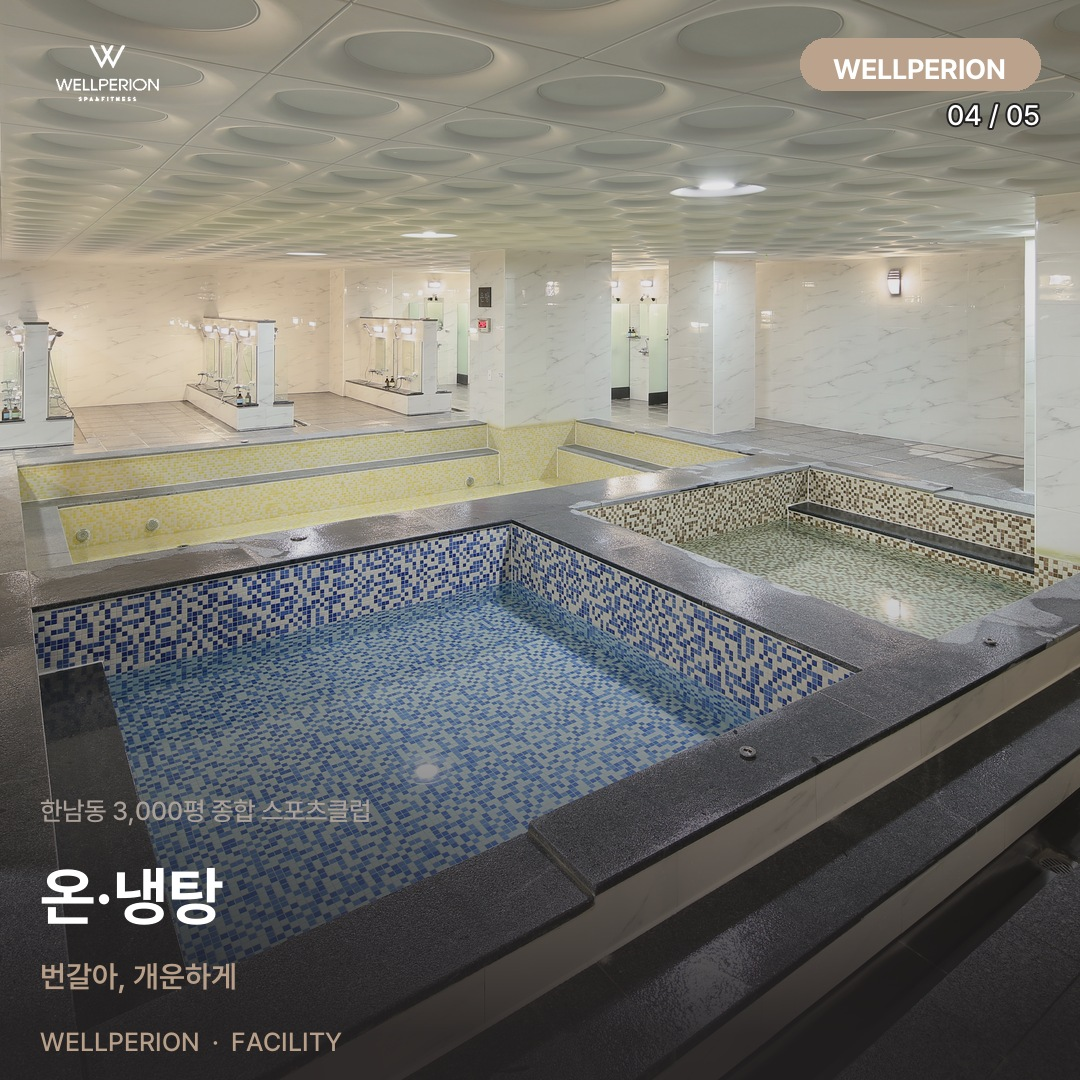
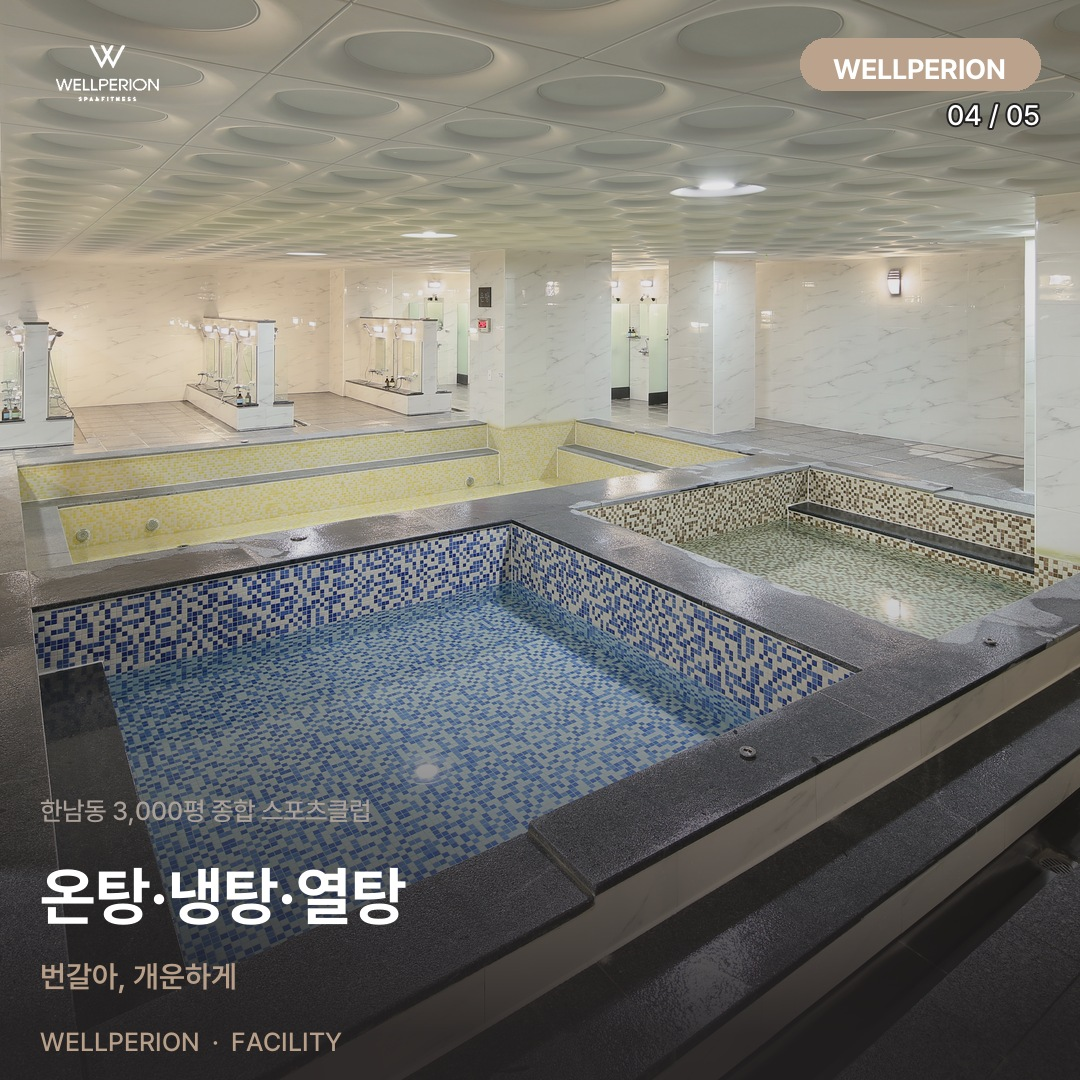
fix(월간계획): 6→7월 이월 표기 재커밋(직전 워처 리셋에 유실분 복구)
- 07-04 채용·07-11 밸류업 이월 + 07-03 시설부 제목 명확화
- origin에 2건만 반영돼 GM '반영 안됨' 지적 → 4건으로 확정

Claude-Session: https://claude.ai/code/session_01FEFiW1A1WuQz2Bhx6L2Foj

Changed region(s): [[0.0917, 0.7944, 0.3667, 0.8556]]

diff --git a/3. 웰페리온 가이드/cpo/member/문의회원.html b/3. 웰페리온 가이드/cpo/member/문의회원.html
@@ -756,6 +756,7 @@ tr.row-registered td:first-child{box-shadow:inset 3px 0 0 var(--accent)}
 .mdash-sec:last-child{margin-bottom:0}
 .mdash-sec-hd{font-size:12px;font-weight:800;color:var(--accent);margin-bottom:9px;letter-spacing:-0.01em}
 .mdash-metrics{display:grid;grid-template-columns:repeat(3,1fr);gap:10px}
+.mdash-metrics.cols2{grid-template-columns:repeat(2,1fr)}
 .mdash-metric{padding:11px 13px;border-radius:9px;background:rgba(125,123,116,0.07);border:1px solid var(--border-subtle)}
 .mdash-metric-k{font-size:10.5px;font-weight:700;color:var(--dim-mid);white-space:nowrap;margin-bottom:5px}
 .mdash-3col{display:flex;align-items:baseline;gap:9px;flex-wrap:wrap}
@@ -781,7 +782,7 @@ tr.row-registered td:first-child{box-shadow:inset 3px 0 0 var(--accent)}
 .mdash-chip.red{background:var(--red-bg);border:1px solid var(--red-border);color:var(--red)}
 .mdash-chip.yellow{background:var(--yellow-bg);border:1px solid var(--yellow-border);color:var(--yellow)}
 .mdash-chip.green{background:var(--green-bg);border:1px solid var(--green-border);color:var(--green)}
-@media(max-width:520px){.mdash-metrics{grid-template-columns:1fr}}
+@media(max-width:520px){.mdash-metrics,.mdash-metrics.cols2{grid-template-columns:1fr}}
 
 /* ── 강습 sub-pane(문의/등록/회원) 토글 — 멤버십 dash-card 패턴 차용, 강습 전용 lessonSwitchCard ── */
 .lesson-dash{grid-template-columns:repeat(3,1fr)}
@@ -986,7 +987,8 @@ tr.row-registered td:first-child{box-shadow:inset 3px 0 0 var(--accent)}
         <a class="action-btn" href="https://docs.google.com/spreadsheets/d/12AWcAlgmmYKr2nUbWmVpa71_z3zi0BaU4ZdnOwrI_7U/edit#gid=1902010032" target="_blank" rel="noopener">📊 문의 회원관리 시트 →</a>
         <button class="action-btn" onclick="openGuidePopup()">📖 문의 가이드</button>
         <button class="action-btn" onclick="openGdoc('principle,routine')">📋 운영 원칙·루틴</button>
-        <button class="action-btn" onclick="openMembershipDash()">📊 멤버십 현황</button>
+        <button class="action-btn" id="btnMembershipDash" onclick="openMembershipDash()">📊 멤버십 문의 현황</button>
+        <button class="action-btn" id="btnLessonDash" onclick="openLessonDash()" style="display:none">📊 강습 문의 현황</button>
         <button class="action-btn" onclick="openAnalytics('conv')">📈 전환율</button>
         <button class="action-btn" onclick="openAnalytics('funnel')">🔻 잔류·이탈</button>
         <button class="action-btn" onclick="openChurnManage()">🚪 이탈관리</button>
@@ -1975,10 +1977,23 @@ tr.row-registered td:first-child{box-shadow:inset 3px 0 0 var(--accent)}
 <div class="gdoc-overlay" id="mdashModalOverlay" onclick="if(event.target===this)closeMembershipDash()">
   <div class="gdoc-modal" role="dialog" aria-modal="true">
     <div class="gdoc-modal-head">
-      <span class="gdoc-modal-title">📊 멤버십 현황</span>
+      <span class="gdoc-modal-title">📊 멤버십 문의 현황</span>
       <button class="gdoc-close" type="button" onclick="closeMembershipDash()" aria-label="닫기">&times;</button>
     </div>
     <div id="mdashModalBody">
+      <div style="color:var(--dim);font-size:12px">불러오는 중…</div>
+    </div>
+  </div>
+</div>
+
+<!-- ══ 강습 문의 현황 집중형 대시보드 모달 (버튼 📊 강습 문의 현황 → openLessonDash). 멤버십 팝업 패턴 복제, type(성인/유소년)별 배선. 2026-07-07 시포·GM ══ -->
+<div class="gdoc-overlay" id="lessonDashModalOverlay" onclick="if(event.target===this)closeLessonDash()">
+  <div class="gdoc-modal" role="dialog" aria-modal="true">
+    <div class="gdoc-modal-head">
+      <span class="gdoc-modal-title" id="lessonDashModalTitle">📊 강습 문의 현황</span>
+      <button class="gdoc-close" type="button" onclick="closeLessonDash()" aria-label="닫기">&times;</button>
+    </div>
+    <div id="lessonDashModalBody">
       <div style="color:var(--dim);font-size:12px">불러오는 중…</div>
     </div>
   </div>
@@ -2062,9 +2077,11 @@ document.addEventListener('keydown', function(e){
   var conv = document.getElementById('convModalOverlay');
   var funnel = document.getElementById('funnelModalOverlay');
   var mdash = document.getElementById('mdashModalOverlay');
+  var ldash = document.getElementById('lessonDashModalOverlay');
   if (conv && conv.classList.contains('open')) closeAnalytics('conv');
   if (funnel && funnel.classList.contains('open')) closeAnalytics('funnel');
   if (mdash && mdash.classList.contains('open')) closeMembershipDash();
+  if (ldash && ldash.classList.contains('open')) closeLessonDash();
 });
 // 우측 CPO 가이드 펼치기 — 기존 gdoc 템플릿 콘텐츠를 인라인으로 clone(중복 없음). 2026-06-29 시포
 function toggleGuideAcc(btn, id) {
@@ -2399,6 +2416,119 @@ function _mdashRenderMemberSection(){
       '</div>';
   });
 }
+
+/* ── 강습 문의 현황 집중형 대시보드 모달 — 멤버십 팝업 패턴 복제(진입 버튼 📊 강습 문의 현황 → #lessonDashModalOverlay).
+   type(성인강습/유소년강습)는 현재 활성 강습 뷰(.type-chip.active)를 따라감 — 뷰별 대칭 팝업.
+   정직성: stage_funnel의 강습 퍼널(예약/방문/가입 단계)은 백엔드 소스 신호 미분리로 값이 붕괴(예약=방문=가입 동일값 확인) → 병목 섹션 자체 미표시.
+   cpo_churn_stats는 유효회원 시트(멤버십) 전용이라 강습 이탈 데이터 없음 → 이탈 서브섹션 미표시.
+   funnel_conversion은 멤버십+강습 문의가 뒤섞여 강습 단독 채널 집계 불가 → 채널은 lesson_stats(type 스코프)의 byChannel 사용(올해 누적 기준, 실제 연도 필터 백엔드 확인됨).
+   등록 수 이번달·지난달 델타는 lesson_registry_list(from/to) 실측(가벼운 소량 응답, 확인됨). 문의 지난달 델타는 lesson_stats가 기간필터 미지원이라 "–". 2026-07-07 시포·GM ── */
+var _lessonDashLoaded = { adult: false, youth: false };
+function _curLessonType(){
+  var chip = document.querySelector('.type-chip.active[data-type]');
+  var v = chip ? chip.getAttribute('data-type') : '';
+  return v === 'lessonYouth' ? 'youth' : 'adult';
+}
+function openLessonDash(){
+  var ov = document.getElementById('lessonDashModalOverlay');
+  if (!ov) return;
+  var t = _curLessonType();
+  var titleEl = document.getElementById('lessonDashModalTitle');
+  if (titleEl) titleEl.textContent = '📊 강습 문의 현황 (' + (t === 'youth' ? '유소년' : '성인') + ')';
+  ov.classList.add('open');
+  if (!_lessonDashLoaded[t]) { _lessonDashLoaded[t] = true; loadLessonDash(t); }
+}
+function closeLessonDash(){
+  var ov = document.getElementById('lessonDashModalOverlay');
+  if (ov) ov.classList.remove('open');
+}
+function _lessonFetchRegistry(lsType, from, to, cb){
+  if (GAS_URL === GAS_PLACEHOLDER) { cb(null); return; }
+  fetch(GAS_URL + '?action=lesson_registry_list&type=' + encodeURIComponent(lsType) + '&from=' + from + '&to=' + to + _wpKeyParam())
+    .then(function(r){ return r.json(); })
+    .then(function(d){ cb(d && d.ok ? d : null); })
+    .catch(function(){ cb(null); });
+}
+function loadLessonDash(t){
+  var st = _lessonState[t];
+  var lsType = st ? st.type : (t === 'youth' ? '유소년강습' : '성인강습');
+  var body = document.getElementById('lessonDashModalBody');
+  if (!body) return;
+  var _ld = '<div style="color:var(--dim);font-size:11px">불러오는 중…</div>';
+  body.innerHTML =
+    '<div class="mdash-sec"><div class="mdash-sec-hd">① 이번달 성과</div>' +
+      '<div id="lessonDashSecPerf_' + t + '" class="mdash-metrics cols2">' + _ld + '</div>' +
+      '<div class="mdash-caveat">문의=강습 문의 접수 실측(lesson_stats, 등록일 기준 지난달 비교 미지원 — 델타 "–") · 등록=강습 등록 원장 실측(lesson_registry_list, 등록일 기준) · 지난달 델타=같은 일자까지 공정 비교 · 올해=1월~오늘 누적(추세·작년비 없음). 문의↔등록 코호트가 매칭되지 않아 전환율은 표시하지 않음(강습 전용 매칭 액션 없음).</div></div>' +
+    '<div class="mdash-sec"><div class="mdash-sec-hd">② 채널 효율 (올해 누적)</div>' +
+      '<div id="lessonDashSecChannel_' + t + '">' + _ld + '</div></div>' +
+    '<div class="mdash-sec"><div class="mdash-sec-hd">③ 회원 구성 (수강 중)</div>' +
+      '<div id="lessonDashSecMember_' + t + '">' + _ld + '</div></div>';
+  // ── §1 이번달·지난달·올해 문의(lesson_stats, from/to 미지원=연도 스코프 고정) + 등록(lesson_registry_list, from/to 실측) ──
+  var now = new Date();
+  var mStart = new Date(now.getFullYear(), now.getMonth(), 1);
+  var lStart = new Date(now.getFullYear(), now.getMonth() - 1, 1);
+  var _prevLen = new Date(now.getFullYear(), now.getMonth(), 0).getDate();
+  var lEnd = new Date(now.getFullYear(), now.getMonth() - 1, Math.min(now.getDate(), _prevLen));
+  var yStart = new Date(now.getFullYear(), 0, 1);
+  var res = { stats: undefined, regNow: undefined, regPrev: undefined, regYtd: undefined };
+  function _perfReady(){
+    if (res.stats === undefined || res.regNow === undefined || res.regPrev === undefined || res.regYtd === undefined) return;
+    var el = document.getElementById('lessonDashSecPerf_' + t); if (!el) return;
+    var inqNow = res.stats ? res.stats.thisMonth : null;
+    var inqYtd = res.stats ? res.stats.total : null;   // 백엔드 기본 scope=올해(연도 필터), 전체누적 아님
+    var regNowN = res.regNow ? res.regNow.count : null;
+    var regPrevN = res.regPrev ? res.regPrev.count : null;
+    var regYtdN = res.regYtd ? res.regYtd.count : null;
+    el.innerHTML =
+      _mdashMetric('신규 문의', inqNow, null, inqYtd, false, false) +
+      _mdashMetric('등록', regNowN, regPrevN, regYtdN, false, !!res.regPrev);
+    // §2 채널 — lesson_stats.byChannel(연도 스코프) 재사용, 별도 fetch 없음
+    _lessonDashRenderChannel(t, res.stats);
+  }
+  fetch(GAS_URL + '?action=lesson_stats&type=' + encodeURIComponent(lsType))
+    .then(function(r){ return r.json(); }).then(function(d){ res.stats = (d && d.ok) ? d : null; _perfReady(); }).catch(function(){ res.stats = null; _perfReady(); });
+  _lessonFetchRegistry(lsType, _mdashYmd(mStart), _mdashYmd(now),  function(d){ res.regNow = d; _perfReady(); });
+  _lessonFetchRegistry(lsType, _mdashYmd(lStart), _mdashYmd(lEnd), function(d){ res.regPrev = d; _perfReady(); });
+  _lessonFetchRegistry(lsType, _mdashYmd(yStart), _mdashYmd(now),  function(d){ res.regYtd = d; _perfReady(); });
+  // §3 회원 구성 — 독립 fetch(수강 중 headcount, roster 전체명단 재사용 없음)
+  _lessonDashRenderMember(t, lsType);
+}
+// §2 채널 효율 — lesson_stats(type).byChannel(연도 스코프) 상위 5, 문의 수+비중%. funnel_conversion 대신 사용(그쪽은 멤버십+강습 혼합이라 강습 단독 집계 불가).
+function _lessonDashRenderChannel(t, statsD){
+  var el = document.getElementById('lessonDashSecChannel_' + t); if (!el) return;
+  if (!statsD || !statsD.byChannel) { el.innerHTML = '<div style="color:var(--dim);font-size:11px">채널 데이터 없음</div>'; return; }
+  var list = (statsD.byChannel || []).filter(function(c){ return (c.v || 0) > 0; }).slice(0, 5);
+  if (!list.length) { el.innerHTML = '<div style="color:var(--dim);font-size:11px">채널 데이터 없음</div>'; return; }
+  var maxN = Math.max.apply(null, list.map(function(c){ return c.v || 0; }));
+  var totalN = list.reduce(function(s, c){ return s + (c.v || 0); }, 0);
+  el.innerHTML = list.map(function(c){
+    var name = c.k ? esc(c.k) : '기타·미상';
+    var n = c.v || 0;
+    var w = maxN > 0 ? Math.max(n / maxN * 100, n > 0 ? 3 : 0) : 0;
+    var pct = totalN > 0 ? Math.round(n / totalN * 100) : 0;
+    return '<div class="mdash-ch-row"><div class="mdash-ch-name">' + name + '</div>' +
+           '<div class="mdash-ch-track"><div class="mdash-ch-fill" style="width:' + w.toFixed(1) + '%"></div></div>' +
+           '<div class="mdash-ch-pct">' + n + '건 · ' + pct + '%</div></div>';
+  }).join('');
+}
+// §3 회원 구성 — lesson_registered_roster(type) 종목별 수강 headcount. 외부관리(루프메소드 등) sheetFound=false는 별도 배지로 정직 표기(0 날조 금지).
+function _lessonDashRenderMember(t, lsType){
+  var el = document.getElementById('lessonDashSecMember_' + t); if (!el) return;
+  if (GAS_URL === GAS_PLACEHOLDER) { el.innerHTML = '<div style="color:var(--dim);font-size:11px">구성 데이터 없음</div>'; return; }
+  fetch(GAS_URL + '?action=lesson_registered_roster&type=' + encodeURIComponent(lsType) + _wpKeyParam())
+    .then(function(r){ return r.json(); })
+    .then(function(d){
+      if (!d || !d.ok) { el.innerHTML = '<div style="color:var(--dim);font-size:11px">구성 데이터 불러오기 실패</div>'; return; }
+      var chips = '<span class="mdash-chip teal">수강 중 <b>' + (d.total || 0).toLocaleString() + '</b></span>';
+      (d.bySport || []).filter(function(s){ return s.registered != null && s.registered > 0; })
+        .sort(function(a, b){ return b.registered - a.registered; }).slice(0, 6)
+        .forEach(function(s){ chips += '<span class="mdash-chip accent">' + esc(s.명) + ' <b>' + s.registered + '</b></span>'; });
+      var extNote = (d.bySport || []).filter(function(s){ return s.external; }).map(function(s){ return s.명; });
+      el.innerHTML = '<div class="mdash-chips">' + chips + '</div>' +
+        (extNote.length ? '<div class="mdash-caveat">' + esc(extNote.join('·')) + '=외부 파트너 프로그램(명단 외부관리·본 집계 미포함, 날조 방지)</div>' : '');
+    })
+    .catch(function(){ el.innerHTML = '<div style="color:var(--dim);font-size:11px">구성 데이터 불러오기 실패</div>'; });
+}
 // 이탈 신호 매트릭스의 실측 2행(이탈 확정·갱신 D-14) 라이브 숫자 주입. 캐시 재사용(강제조회 아님). 2026-07-03 시포·GM
 function renderChurnMatrixLive(body){
   if (!body) return;
@@ -2497,6 +2627,10 @@ function switchFamily(fam) {
     c.style.display = (types.indexOf(c.getAttribute('data-type')) >= 0) ? '' : 'none';
   });
   var _famName = (fam === 'lesson') ? '강습 회원관리' : '멤버십 회원관리';
+  // 현황 팝업 버튼도 family 대칭 전환(멤버십/강습 배타 표시) — 배3 후속, 2026-07-07 시포·GM
+  var _btnMem = document.getElementById('btnMembershipDash'), _btnLes = document.getElementById('btnLessonDash');
+  if (_btnMem) _btnMem.style.display = (fam === 'lesson') ? 'none' : '';
+  if (_btnLes) _btnLes.style.display = (fam === 'lesson') ? '' : 'none';
   var famEl = document.getElementById('manageFamilyLabel');
   if (famEl) famEl.textContent = _famName;
   var titleEl = document.getElementById('pageTitleTxt');   // 상단 H1도 그룹명으로(통합 회원 관리 → 멤버십/강습). 2026-07-02 시포·GM

diff --git a/scripts/compose_official_facility_series.py b/scripts/compose_official_facility_series.py
@@ -160,22 +160,23 @@ EPISODES = [
         "caption": (
             "운동 뒤의 시간도 웰페리온입니다.\n\n"
             "따뜻한 원목의 건식 사우나, 몸을 데우는 습식 사우나,\n"
-            "뜨끈한 찜질방과 온·냉탕까지.\n"
+            "뜨끈한 찜질방과 온탕·냉탕·열탕까지.\n"
+            "여성 사우나에는 세신 관리도 준비되어 있습니다.\n"
             "땀을 흘린 만큼, 제대로 회복하세요.\n\n"
             "문의: wellperion.com/ko/inquiry\n\n"
             "#웰페리온 #한남동 #스포츠클럽 #사우나 #건식사우나 #습식사우나 "
-            "#찜질방 #온냉탕 #회복"
+            "#찜질방 #열탕 #세신 #회복"
         ),
         "slides": [
             {"kind": "hero", "photo": KAKAO / "건식사우나.jpg",
-             "title": "회복,\n하루의 마무리", "sub": "건식 · 습식 · 찜질 · 온냉탕",
+             "title": "회복,\n하루의 마무리", "sub": "건식 · 습식 · 찜질 · 탕",
              "cta": ""},
             {"kind": "feature", "photo": KAKAO / "습식사우나.jpg",
              "title": "습식 사우나", "sub": "깊게 데우는 스팀"},
             {"kind": "feature", "photo": KAKAO / "여자사우나 찜질방.jpg",
              "title": "찜질방", "sub": "뜨끈하게 지지는 온기"},
             {"kind": "feature", "photo": KAKAO / "남자 탕.jpg",
-             "title": "온·냉탕", "sub": "번갈아, 개운하게"},
+             "title": "온탕·냉탕·열탕", "sub": "번갈아, 개운하게"},
             {"kind": "hero", "photo": KAKAO / "여자사우나 휴게공간.jpg",
              "title": "충분히 쉬어가는\n자리", "sub": "",
              "cta": "문의 · wellperion.com/ko/inquiry", "title_size": 58},

diff --git a/instagram/260707_공식_시설_F3_회복/큐레이션_추천.md b/instagram/260707_공식_시설_F3_회복/큐레이션_추천.md
@@ -9,12 +9,13 @@
 운동 뒤의 시간도 웰페리온입니다.
 
 따뜻한 원목의 건식 사우나, 몸을 데우는 습식 사우나,
-뜨끈한 찜질방과 온·냉탕까지.
+뜨끈한 찜질방과 온탕·냉탕·열탕까지.
+여성 사우나에는 세신 관리도 준비되어 있습니다.
 땀을 흘린 만큼, 제대로 회복하세요.
 
 문의: wellperion.com/ko/inquiry
 
-#웰페리온 #한남동 #스포츠클럽 #사우나 #건식사우나 #습식사우나 #찜질방 #온냉탕 #회복
+#웰페리온 #한남동 #스포츠클럽 #사우나 #건식사우나 #습식사우나 #찜질방 #열탕 #세신 #회복
 
 ### 위치
 웰페리온 스포츠클럽
